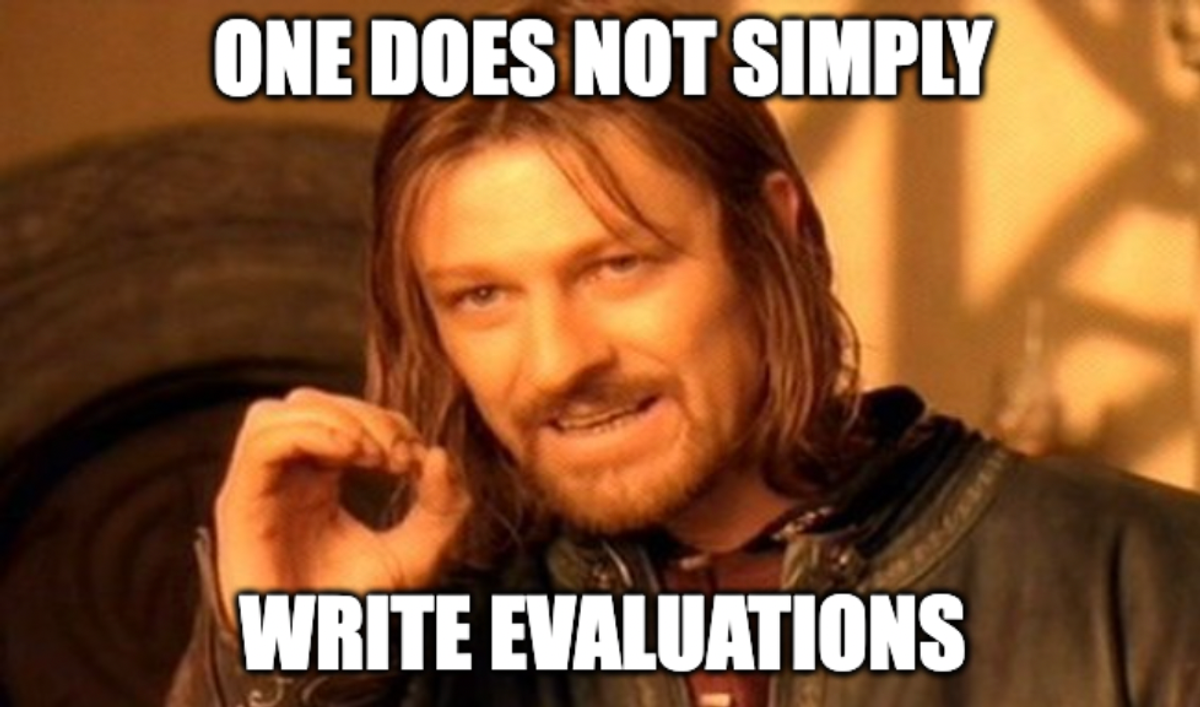
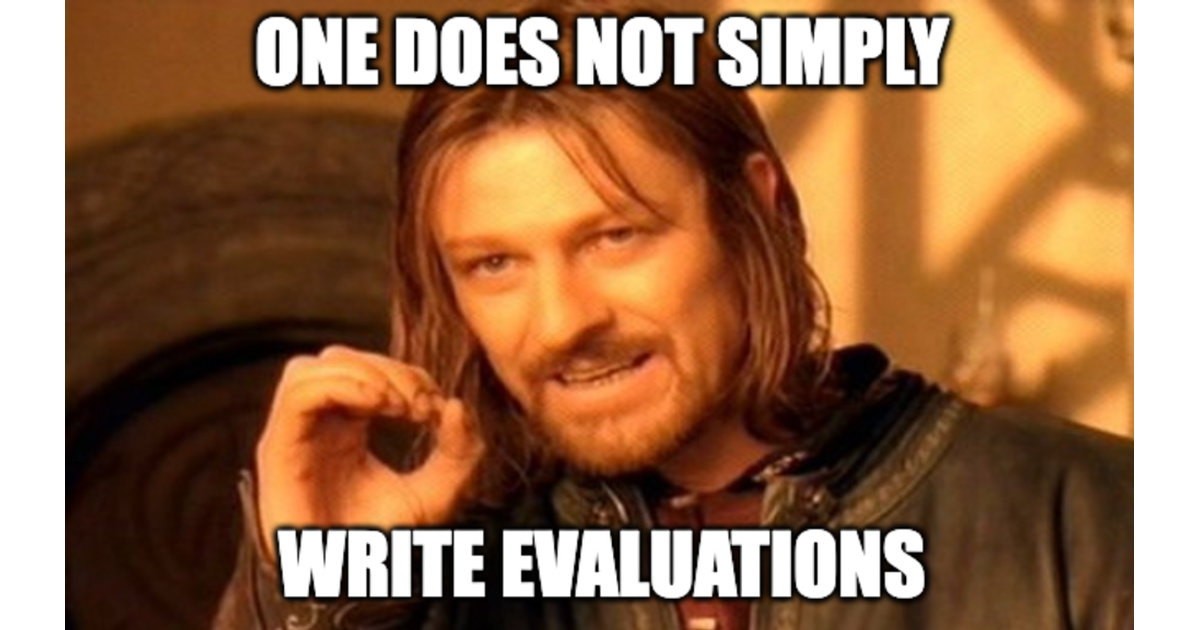
hopefully fix ogs

diff --git a/src/app/blog/[slug]/page.tsx b/src/app/blog/[slug]/page.tsx
@@ -5,12 +5,12 @@ import matter from 'gray-matter';
 import 'katex/dist/katex.min.css';
 import { Metadata } from 'next';
 import path from 'path';
+import rehypeImg from 'rehype-img-size';
 import rehypeKatex from 'rehype-katex';
 import rehypeStringify from 'rehype-stringify';
 import { remark } from 'remark';
 import remarkMath from 'remark-math';
 import remarkRehype from 'remark-rehype';
-import rehypeImg from 'rehype-img-size';
 import './prose.css';
 
 type Props = {
@@ -23,21 +23,44 @@ export async function generateMetadata({ params }: Props): Promise<Metadata> {
   const fileContents = fs.readFileSync(filePath, 'utf8');
   const { data } = matter(fileContents);
 
+  const baseUrl = 'https://mattzcarey.com';
+  const imageUrl = data.image ? 
+    `${baseUrl}${data.image}` : `${baseUrl}/og.jpg`;
+  const canonicalUrl = `${baseUrl}/blog/${params.slug}`;
+
   return {
-    title: data.title,
-    ...(data.image ? {
-      openGraph: {
-        images: [data.image],
-      },
-      twitter: {
-        card: 'summary_large_image',
-        images: [data.image],
-      },
-    } : {
-      twitter: {
-        card: 'summary',
-      },
-    }),
+    title: {
+      absolute: `${data.title} | Matt Carey`,
+    },
+    description: data.description || "AI Engineer and Community Builder based in London.",
+    keywords: data.tags || ["AI", "Machine Learning", "Engineering"],
+    authors: [{ name: "Matt Carey" }],
+    openGraph: {
+      title: data.title,
+      description: data.description || "AI Engineer and Community Builder based in London.",
+      url: canonicalUrl,
+      siteName: "Matt Carey's Blog",
+      images: [{
+        url: imageUrl,
+        width: 1200,
+        height: 630,
+        alt: data.title,
+      }],
+      locale: "en-GB",
+      type: "article",
+      publishedTime: data.date,
+      authors: ["Matt Carey"],
+    },
+    twitter: {
+      card: "summary_large_image",
+      title: data.title,
+      description: data.description || "AI Engineer and Community Builder based in London.",
+      images: [imageUrl],
+      creator: "@mattzcarey",
+    },
+    alternates: {
+      canonical: canonicalUrl,
+    },
   };
 }
 

diff --git a/scripts/compress_og.ts b/scripts/compress_og.ts
@@ -4,6 +4,7 @@ import sharp from "sharp";
 
 const imagesDir = path.join(process.cwd(), "public/images/og");
 const maxWidth = 1200;
+const maxHeight = 630;
 
 const SUPPORTED_EXTENSIONS = ['.jpg', '.jpeg', '.png', '.webp', '.gif'];
 
@@ -14,7 +15,10 @@ const processImage = async (filePath: string): Promise<void> => {
 
   try {
     await sharp(filePath)
-      .resize({ width: maxWidth })
+      .resize(maxWidth, maxHeight, {
+        fit: 'contain',
+        background: { r: 255, g: 255, b: 255, alpha: 1 }
+      })
       .toFile(outputFilePath);
     
     fs.unlinkSync(filePath);
